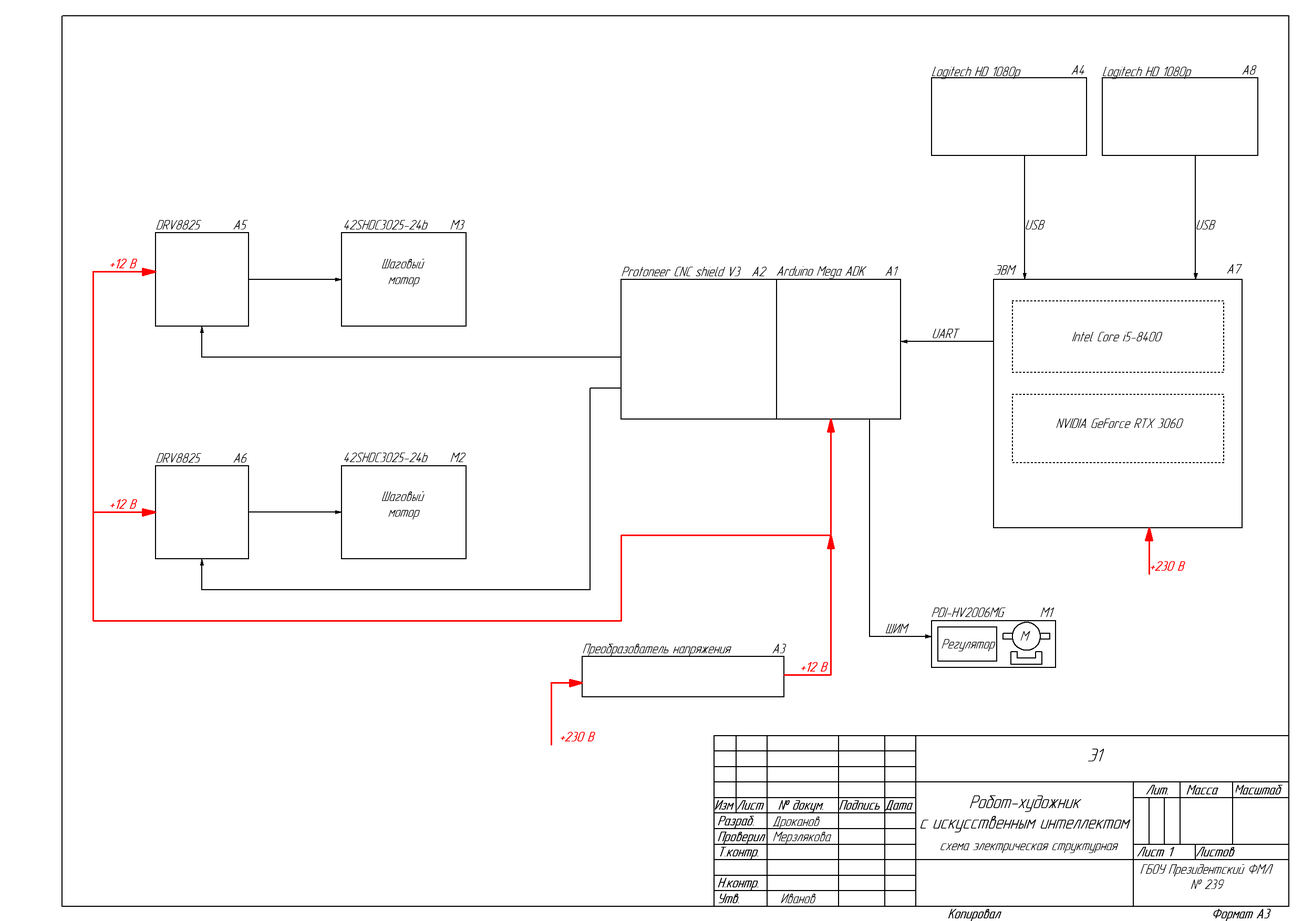
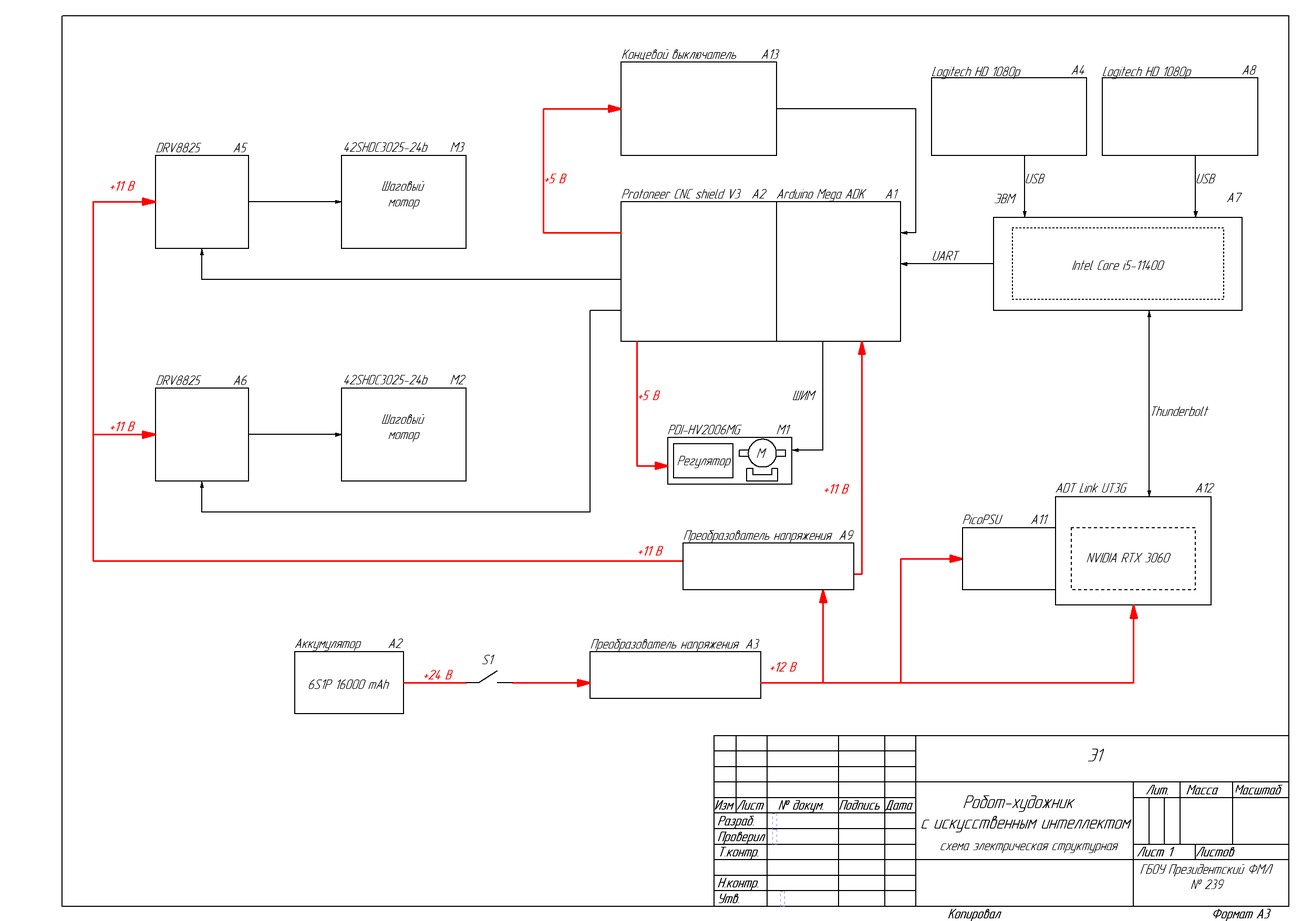
README и актуальная схема

diff --git a/README.md b/README.md
@@ -1,0 +1,149 @@
+# Робот-художник с искусственным интеллектом
+
+Робот на базе координатного плоттера (кинематика H-bot), который распознаёт жесты и голос пользователя, генерирует изображение по наброску и текстовой подсказке (Stable Diffusion + ControlNet) и рисует его маркером на бумаге. Устройство собрано в корпусе чемодана.
+
+Проект выполнен в рамках Всероссийской олимпиады школьников (профиль «Робототехника», технология/труд), ГБНОУ «Президентский ФМЛ №239». Полная пояснительная записка — в [`docs/`](docs).
+
+---
+
+## Идея
+
+Пользователь рисует пальцем в воздухе набросок и произносит тему открытки. Робот:
+
+1. по видео с камеры распознаёт кисть руки и жесты (без каких-либо контроллеров/перчаток — только компьютерное зрение);
+2. переводит траекторию пальца в линию на холсте;
+3. распознаёт голосовую подсказку и переводит её на английский;
+4. генерирует по наброску и тексту 3 варианта изображения нейросетью img2img (Stable Diffusion 1.5 + ControlNet-Scribble);
+5. превращает выбранное растровое изображение в непрерывную траекторию заливки контуров, которую физически можно нарисовать одним маркером;
+6. рисует получившуюся открытку на листе А5 плоттером, отслеживая, не мешает ли этому процессу рука человека в рабочей зоне.
+
+В проекте задействованы: компьютерное зрение реального времени, классификация жестов собственной нейросетью, генеративная модель (Stable Diffusion), C++-модуль для расчёта траектории закраски растра, интеграция C++/Python через `ctypes`, прошивка ЧПУ (Marlin) и GUI на tkinter.
+
+---
+
+## Аппаратная часть (кратко, для понимания контекста ПО)
+
+Структурная электрическая схема — [`docs/Э1.png`](docs/Э1.png).
+
+- **Вычислительный блок**: Intel Core i5, NVIDIA GeForce RTX 3060 (12 ГБ VRAM, обязательна для инференса Stable Diffusion в разумное время), подключена через выносной модуль (ADT-Link UT3G, Thunderbolt/PCIe extender) — компьютер и видеокарта физически разнесены внутри чемодана.
+- **Плоттер**: рама на алюминиевом конструкционном профиле, кинематика **H-bot** (позаимствована и адаптирована из открытой 3D-модели принтера, ось Z удалена — печатающая головка держит маркер и сервопривод его подъёма/опускания), 2 шаговых мотора Nema17 (42SHDC3025-24b) через драйверы DRV8825.
+- **Контроллер плоттера**: Arduino Mega + Protoneer CNC Shield V3, прошивка — форк **Marlin** (см. [`Marlin/`](Marlin)), команды отправляются по serial в формате G-code.
+- **Определение уровня маркера**: оптический концевой выключатель + автокалибровка угла сервопривода (см. `Plotter.calibrate_servo` в `plotter.py`).
+- **Зрение**: 2 камеры Logitech HD 1080p (одна следит за рукой пользователя, другая — за рабочей зоной плоттера/бумагой), RTSP/локальный видеопоток.
+- **Питание**: аккумулятор 6S1P 16000 мАч + понижающие преобразователи напряжения.
+- Механика и корпус спроектированы в КОМПАС-3D (`models/`, `plans/`, `Machine.stp`), детали — лазерная резка фанеры + 3D-печать.
+
+---
+
+## Структура ПО
+
+Весь код, кроме одного модуля траектории, написан на **Python**; вычислительно критичный модуль генерации траектории заливки — на **C++**, скомпилирован в разделяемую библиотеку и вызывается из Python через `ctypes`. Такое разделение осознанное: ИИ-части нужна простота интеграции с экосистемой ML (PyTorch/TensorFlow/Keras), а геометрическому алгоритму — сырая производительность и доступ к параллелизму GPU.
+
+### Модуль жестового управления
+
+| Файл | Назначение |
+|---|---|
+| `gesture_recognizer.py` | Отдельный процесс: получает кадры с камеры, прогоняет через **MediaPipe HandLandmarker** (21 ключевая точка кисти) и через собственную обученную сеть-классификатор жестов. |
+| `mlmodels/static.keras`, `convert_tensorrt.py` | Классификатор жестов: `Conv1D → Conv1D → Dense`, обучен на 20 эпохах на собственном датасете (см. `gen_ds.py`, `dataset/*.npy` — записи координат ключевых точек для жестов `open`/`ok`/`up`/`dislike`, собраны покадровым разбором отснятого видео). Дополнительно оптимизирован через **TensorRT SDK** (`convert_tensorrt.py`, `mlmodels/static_tftrt/`) для ускорения инференса на GPU. |
+| `commander.py` | Конечный автомат высокого уровня, интерпретирующий последовательность жестов в действия: `Thumb_Up` — начать/закончить рисование или подтвердить выбор («да» в диалогах), `Thumb_Down` — отклонить вариант («нет»), `Pointing_Up` — переместить курсор, «щипок» большого и указательного пальца (порог по отношению межпальцевого расстояния к длине пальца) — «зажать» и вести линию (жест `Click` определяется отдельно от ML-классификатора чисто геометрически), `Open_Palm` ×2 — очистить холст. |
+| `utilites.py` | Общие геометрические функции (расстояние между landmark'ами, отрисовка скелета кисти, линейная интерполяция координат камера → экран). |
+
+Межпроцессное взаимодействие построено на `multiprocessing.Process/Queue/Value`: захват видео, распознавание жестов, генеративная нейросеть и GUI выполняются в **параллельных процессах**, синхронизированных через очереди и разделяемые примитивы, — иначе тяжёлый инференс диффузионной модели «заморозил» бы интерфейс.
+
+Отдельная деталь: координата указательного пальца транслируется не напрямую в canvas, а в системный курсор мыши через `pyautogui` (`Commander.move`), а сама линия на холсте рисуется по отдельным командам (`set_start`/`draw_line`/`end_line`), отправляемым в GUI-процесс через очередь — canvas в `interface.py` намеренно не подписан на нативные события мыши tkinter, вся отрисовка идёт только через этот канал.
+
+### Голосовой ввод
+
+Распознавание речи и перевод реализованы прямо в `Commander.listen()` (`commander.py`): запись с микрофона через `speech_recognition`, распознавание русской речи (Google Speech API), перевод на английский через `googletrans` — для передачи в англоязычную по природе модель Stable Diffusion. Подтверждение распознанной фразы также идёт жестами (`Thumb_Up`/`Thumb_Down`) через тот же `move_while`, то есть голосовой и жестовый каналы переиспользуют одну и ту же логику ожидания. В репозитории также есть `google_speech.py` с похожей автономной функцией `recognize_and_translate` — в текущем пайплайне она не импортируется и не используется, судя по всему это более ранняя версия того же функционала.
+
+### Генеративная нейросеть
+
+`generator.py` — управление диффузионным пайплайном через библиотеку **`diffusers`**:
+
+- **Stable Diffusion 1.5** + **ControlNet-Scribble** (`lllyasviel/sd-controlnet-scribble`) — набросок пользователя используется как структурное условие (contour-conditioning) генерации, а не просто как затравка, что даёт предсказуемую композицию итоговой картинки;
+- планировщик **UniPCMultistepScheduler** — ускоренный сэмплер, позволяющий получить качественный результат за меньшее число шагов диффузии;
+- **DeepCache** — кэширование промежуточных активаций UNet между шагами денойзинга для ускорения инференса;
+- **tomesd** (Token Merging for Stable Diffusion) — слияние похожих токенов внимания, снижение вычислительной нагрузки без заметной потери качества;
+- **xFormers** memory-efficient attention + `channels_last` memory format для UNet/VAE — оптимизация под конкретную архитектуру GPU;
+- инференс выполняется на CUDA, весь пайплайн запущен в отдельном процессе, прогресс диффузии (шаг за шагом) прокидывается обратно в GUI через очередь для прогресс-бара.
+
+Набор оптимизаций (DeepCache, tomesd, xFormers) выбран, чтобы уложить генерацию в приемлемое время на одной видеокарте с 12 ГБ видеопамяти при демонстрации вживую.
+
+### Определение бумаги в рабочей зоне
+
+`detect_paper.py` — компьютерное зрение поверх OpenCV/scikit-image: HSV-маскирование по цвету реперных зелёных меток на листе, поиск контуров, `minAreaRect` + сопоставление углов, перспективная трансформация (`warpPerspective`) для приведения снятого листа к прямоугольнику, повторное выделение внутренней зелёной рамки на выровненном изображении фильтром Канни для точного определения границ печатной области.
+
+### Перевод изображения в траекторию плоттера
+
+**Постановка задачи**: дано растровое бинарное изображение контуров (после `canny` + бинарная дилатация в `drawer.py`/`utilites.py`), нужно построить один непрерывный путь маркера конечной толщины `d`, который закрасит все контурные пиксели, минимизируя количество отрывов пера и лишних перемещений. По формулировке это близко к задачам покрытия зоны обхода (area coverage / Chinese postman) на нерегулярной области, для которых в общем случае нет простого точного решения за разумное время, поэтому используется эвристика.
+
+**Алгоритм** (`trajectory.cpp`, экспортируется как `extern "C"` для вызова из Python):
+
+1. Случайно выбирается стартовая точка, вокруг которой в радиусе `d/2` нет ни закрашенных, ни выходящих за рисунок точек.
+2. Между текущей и следующей точкой строится путь (`get_path`), и вдоль всего пути закрашивается «дорожка» шириной `d` (имитация толщины реального маркера) — заливка выполняется BFS-подобным обходом (`fill_area`) с деками и посещённостью, а не наивным перебором пикселей.
+3. Далее ищется следующая точка на расстоянии `d + 1` от текущей, удовлетворяющая тому же условию; если такой нет — берётся случайная валидная точка на изображении; если и такой нет — условие ослабляется (достаточно не выходить за границы исходной маски).
+4. Цикл повторяется, пока не останется незакрашенных пикселей.
+5. Результат — последовательность координат с маркерами разрывов (`±1e9`), которую `plotter.py` превращает в G-code, сшивая соседние фрагменты и вставляя команды подъёма/опускания пера между несвязными участками.
+
+**Производительность и GPU-параллелизм.** При обработке реалистичных изображений число точек достаточно велико, чтобы наивная реализация на C++ работала медленно. Часть циклов переписана с использованием алгоритмов `std::execution`/`stdpar` (C++17), и модуль компилируется компилятором `nvc++` из NVIDIA HPC SDK с флагами `-stdpar -gpu=managed,cuda...,cc...` — стандартные алгоритмы STL (`transform`, `reduce`, `any_of`) в этом случае выполняются на GPU без написания CUDA-кернелов вручную. По оценке из пояснительной записки, это даёт прирост скорости на порядок по сравнению с однопоточным CPU-вариантом.
+
+**Компиляция на лету.** `drawer.py::TrajectoryLib` сравнивает текущий исходник `trajectory.cpp` с сохранённой предыдущей версией (`lib/trajectory.prev`) и, если код изменился, перекомпилирует `.so`-библиотеку прямо во время работы программы (JIT-подобная схема разработки для C++/GPU кода).
+
+**Мост Python ↔ C++.** Через `ctypes.CDLL` и `numpy.ctypeslib.ndpointer` с явной типизацией указателей (2D/3D массивы `float128`/`int32`) — передача сырых NumPy-буферов в скомпилированную библиотеку без копирования и без обёрточных биндингов вроде pybind11/Cython (в проекте также есть отдельные эксперименты с Cython, см. `tests/test_cython/`).
+
+### Управление плоттером и прошивка
+
+- `plotter.py` — класс `Plotter(serial.Serial)`: отправка G-code по последовательному порту с построчным подтверждением (`ok\n`), автокалибровка угла сервопривода по срабатыванию концевого выключателя, расчёт задержек между командами по фактической скорости подачи, а также **параллельный процесс безопасности** `HandChecker` — во время печати отдельный процесс детектирует руку человека в рабочей зоне через тот же MediaPipe-детектор и ставит печать на паузу, если пользователь потянулся к плоттеру.
+- [`Marlin/`](Marlin) — используется прошивка **Marlin** (популярная прошивка для 3D-принтеров), сконфигурированная под кинематику **CoreXY/H-bot** и плату `PROTONEER_CNC_SHIELD_V3`, с урезанной осью Z (заменена на сервопривод пера).
+
+### Интерфейс пользователя
+
+`interface.py` — GUI на `tkinter`: собственные виджеты со скруглёнными углами и кастомной отрисовкой на `Canvas` (`RoundedFrame`/`RoundedButton`, ручное построение сглаженных многоугольников, авто-перенос текста по ширине виджета), полноэкранное окно с превью видео с камеры, индикатором состояния рисования (цветовой светофор), прогресс-баром генерации, попапом выбора толщины линии и блоком пошаговой инструкции по жестам для новых пользователей. Все тяжёлые операции (распознавание, генерация, печать) выполняются в фоновых процессах и общаются с GUI-процессом строго через очереди команд (`commands_queue`), что нужно, поскольку `tkinter` не является потокобезопасным.
+
+### Обучение и вспомогательные ноутбуки
+
+- `model.ipynb` — подготовка датасета жестов и обучение классификатора (`Conv1D`-архитектура на Keras/TensorFlow, `L2`-регуляризация), там же — эксперименты с настройкой пайплайна Stable Diffusion.
+- `gen_ds.py` — сбор обучающей выборки: покадровое считывание landmark'ов руки с камеры и сохранение в `.npy`.
+- `paper.ipynb`, `convert.ipynb` — вспомогательные эксперименты (отладка детекции бумаги, конвертации моделей).
+- `draw_logo.py` — служебный скрипт печати заранее заданных изображений (например, логотипа) в обход основного пайплайна жестового ввода — использовался для тестирования плоттера отдельно от ИИ-части.
+
+---
+
+## Особенности реализации
+
+- Захват видео, распознавание жестов, генерация изображения и GUI выполняются в отдельных процессах (`multiprocessing`), обмен данными — через очереди и разделяемые значения, а не напрямую.
+- В проекте сочетаются разные модели вычислений: CUDA-инференс нейросетей (PyTorch/TensorRT), GPU-параллелизм через `stdpar`/`nvc++` в C++-модуле траектории, обычный CPU-код для CV и GUI.
+- Обмен данными между Python и C++ идёт напрямую через `ctypes` и `numpy.ctypeslib.ndpointer`, без промежуточных биндинг-генераторов (pybind11/Cython); типы указателей и layout памяти согласуются вручную.
+- Во время печати параллельно работает CV-детектор руки в рабочей зоне (`HandChecker`), который ставит плоттер на паузу при вторжении.
+- Заливка контура маркером конечной толщины реализована собственным эвристическим алгоритмом (жадный обход ближайшей допустимой точки с постепенным ослаблением условий при тупике), а не сторонней библиотекой.
+- Угол подъёма сервопривода пера определяется автокалибровкой по концевому выключателю при каждом запуске, а не задаётся константой в коде.
+
+---
+
+## Технологический стек
+
+**Компьютерное зрение / ML:** MediaPipe (HandLandmarker), TensorFlow/Keras, TensorRT SDK, OpenCV, scikit-image (Canny, морфология, `regionprops`).
+
+**Генеративный ИИ:** PyTorch, `diffusers` (Stable Diffusion 1.5, ControlNet), `tomesd`, `DeepCache`, `xFormers`, CUDA.
+
+**Голос:** `SpeechRecognition` (Google Speech API), `googletrans`.
+
+**Высокопроизводительные вычисления:** C++17, `std::execution`/`stdpar`, NVIDIA HPC SDK (`nvc++`), CUDA, `ctypes`.
+
+**Механика/прошивка:** Marlin firmware, G-code, `pyserial`, Arduino Mega + CNC Shield.
+
+**Интерфейс/инфраструктура:** `tkinter`, `multiprocessing`, NumPy, `pyautogui`, КОМПАС-3D (проектирование, вне репозитория кода).
+
+---
+
+## О запуске
+
+Проект **не является «plug-and-play» приложением** и не предназначен для запуска на произвольной машине без соответствующего физического робота. Он поднимался в окружении, куда были заранее установлены и состыкованы по версиям, в частности:
+
+- CUDA Toolkit и драйверы NVIDIA под конкретную видеокарту;
+- PyTorch + `diffusers`/`transformers`/`accelerate` (с загрузкой весов Stable Diffusion 1.5 и ControlNet-Scribble из HuggingFace);
+- TensorFlow/Keras + TensorRT SDK;
+- MediaPipe с моделью `hand_landmarker.task`;
+- NVIDIA HPC SDK (компилятор `nvc++`) для сборки C++/GPU-модуля траектории под конкретную вычислительную архитектуру GPU (`cc86`);
+- OpenCV, scikit-image, `pyserial`, `SpeechRecognition`, `googletrans`, `pyautogui`, `webcolors` и другие Python-зависимости интерфейса;
+- прошитая плата Arduino Mega с Marlin, физически подключённая по serial, и подключённые камеры/микрофон.
